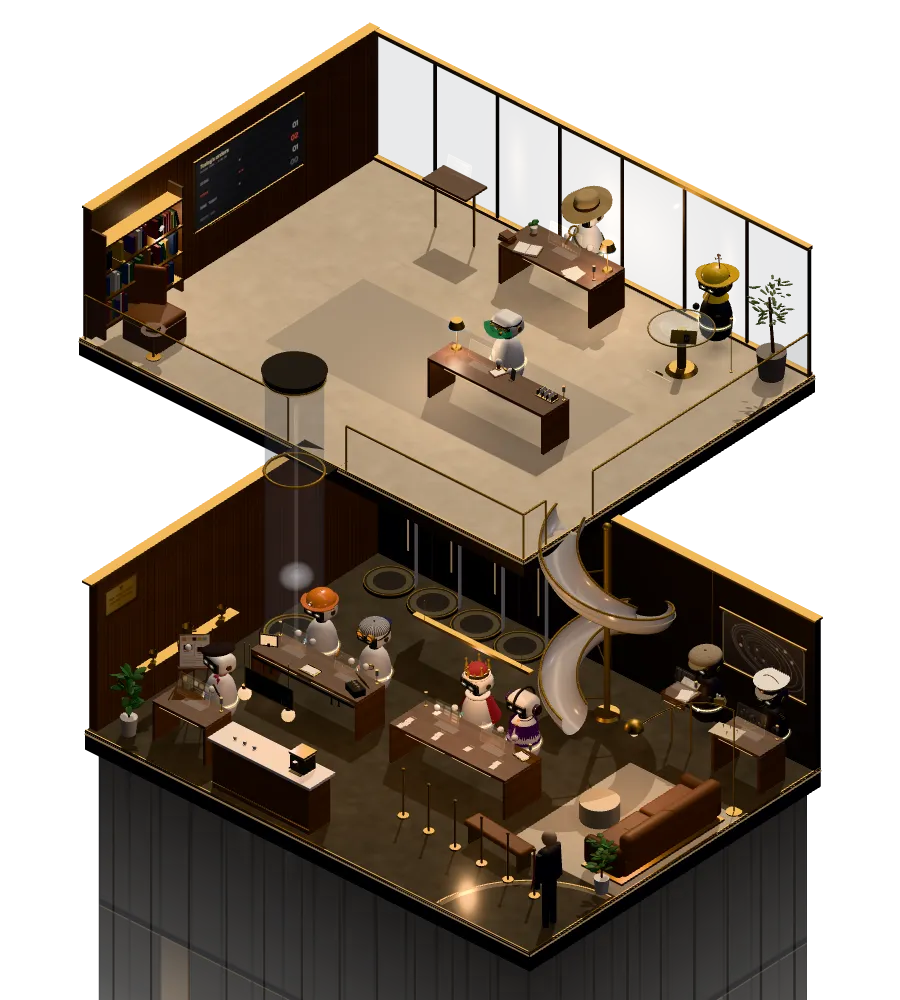
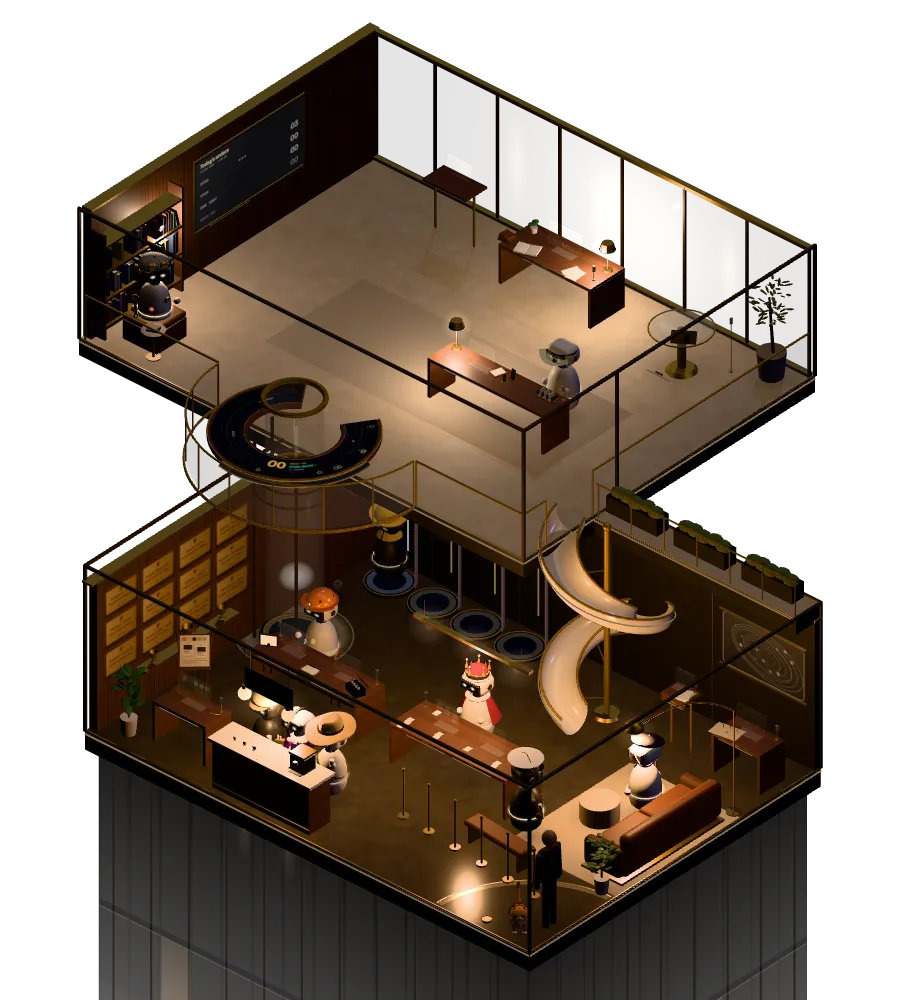
Hub v28.1 scene: open spindle top, ring type on the Observatory, sloped bezel, cat play retry, still re-rendered, v28.1 shots
Claude-Session: https://claude.ai/code/session_016ezDyTJ7bpC4c8kzD8WMCJ

diff --git a/pages/hub/scene.js b/pages/hub/scene.js
@@ -297,7 +297,7 @@ const FL = {down:{ox:0, oy:0, oz:0, wall:2.8}, up:{ox:-4.2, oy:3.1, oz:-4.6, wal
 const gDown = new THREE.Group(), gUp = new THREE.Group(); gUp.position.set(FL.up.ox, FL.up.oy, FL.up.oz); scene.add(gDown, gUp);
 const GRP = {down:gDown, up:gUp};
 const SLIDE = {cx:1.15, cz:-2.3, R:.75, top:3.1, bot:.03, th0:Math.PI, turns:1.25, tr:.3};
-const TUBE = {x:-3.9, z:-.7, r:.46, top:4.85};
+const TUBE = {x:-3.9, z:-.7, r:.46, top:4.45};   // v28.1: .6 m above the Observatory (was 4.85), so the table reads from above
 /* v28.1 the Observatory (blueprint 5.3): a ring table threaded on the tube, upper-floor local coords; its back half on the travertine,
  * its front half out over the half-disc glass cantilever (radius CR from the upper floor's front edge) */
 const OBS = {x:TUBE.x - FL.up.ox, z:TUBE.z - FL.up.oz, y:.745, r0:.74, r1:1.35, gap:.6, CR:2.05};
@@ -791,7 +791,7 @@ const tube = {};
   // highlight streak on the glass
   const hl = new THREE.Mesh(new THREE.PlaneGeometry(.06, top - .4), new THREE.MeshBasicMaterial({color:0xffffff, transparent:true, opacity:.12, depthWrite:false, toneMapped:false})); hl.position.set(x + r*.7, top/2, z + r*.7); hl.rotation.y = Math.PI/4; hl.renderOrder = 6; scene.add(dyn(hl));
   cyl(r + .08, r + .1, .06, MAT.steel, x, .03, z, 40); for (const y of [.07, 3.1, top]){ const t = new THREE.Mesh(new THREE.TorusGeometry(r + .01, .025, 8, 48), MAT.brass); t.rotation.x = Math.PI/2; t.position.set(x, y, z); scene.add(t); }
-  const cap = cyl(r + .06, r + .02, .14, MAT.brassSoft, x, top + .07, z, 40); cap.castShadow = false;   // v28.1: a brass finial on the spindle
+  { const cap = new THREE.Mesh(new THREE.TorusGeometry(r + .03, .045, 10, 48), MAT.brassSoft); cap.rotation.x = Math.PI/2; cap.position.set(x, top + .02, z); scene.add(cap); }   // v28.1: an open brass collar: you see down the spindle
   tube.capMat = new THREE.MeshBasicMaterial({color:0x8a6f4a, toneMapped:false}); const capRing = new THREE.Mesh(new THREE.TorusGeometry(r + .03, .014, 6, 48), tube.capMat); capRing.rotation.x = Math.PI/2; capRing.position.set(x, top - .02, z); scene.add(dyn(capRing));
   tube.ring = new THREE.Mesh(new THREE.TorusGeometry(r - .03, .03, 8, 48), new THREE.MeshBasicMaterial({color:0xf1c48a, transparent:true, opacity:0, depthWrite:false, blending:THREE.AdditiveBlending, toneMapped:false}));
   tube.ring.rotation.x = Math.PI/2; tube.ring.position.set(x, .2, z); tube.ring.visible = false; scene.add(tube.ring);
@@ -2301,6 +2301,7 @@ function catNeedsScan(){
 }
 function catPlayStart(id){
   const a = HUB.byId && HUB.byId[id], sim = sims[id];
+  if (a && sim && sim.ride && a.st === 'waiting'){ if (!CAT.pend.includes(id)) CAT.pend.push(id); return false; }   // mid-ride: after it lands
   if (!a || !sim || sim.hidden || sim.ride || sim.playing || a.st !== 'waiting') return false;
   if (sim.flowRole) flowAbort(sim);
   const f = CAT.floor, cx = CAT.perch ? CAT.perch.spot.x : CAT.x, cz = CAT.perch ? CAT.perch.spot.z : CAT.z;
@@ -2714,7 +2715,7 @@ function settle(){ for (const a of agentsArr()){ const sim = sims[a.id]; if (!si
   for (let i = 0; i < 10 && (sim.moving || sim.queue.length); i++){ if (sim.moving){ place(sim, sim.target); if (sim.pending){ sim.pending = false; applyState(sim, a, false); } } stepQueue(sim, a); if (sim.queue[0] && sim.queue[0].dur){ sim.poseT = sim.queue[0].dur*.4; break; } } } }
 
 /* test helper (not part of the contract): the cat's and the handoffs' state */
-function debug(){ return {cat:{x:CAT.x, z:CAT.z, floor:CAT.floor, alt:CAT.alt, state:catInfo.state, act:CAT.act, pose:CAT.pose, q:CAT.q.length, moving:CAT.moving, with:CAT.with, armed:CAT.armed},
+function debug(){ return {cat:{x:CAT.x, z:CAT.z, floor:CAT.floor, alt:CAT.alt, state:catInfo.state, act:CAT.act, pose:CAT.pose, q:CAT.q.length, moving:CAT.moving, with:CAT.with, withPose:CAT.with && sims[CAT.with] ? sims[CAT.with].pose : null, armed:CAT.armed},
   flows:FLOW.list.map(f => ({dir:f.dir, launched:f.launched, arrived:f.arrived, sW:f.sW, rW:f.rW, taken:f.taken, p:[+f.p.x.toFixed(2), +f.p.y.toFixed(2), +f.p.z.toFixed(2)]})), walk:FLOW.walk, watching:!!HUB.watching, lift:LIFT}; }
 window.SCENE = {ready:true, anchors, frame, resize, pick, settle, debug, get dragged(){ return SC.dragged; }, get info(){ return renderer.info.render; }, get perf(){ return {calls:perfO.calls, tris:perfO.tris, maxCalls:perfO.maxCalls, fps:perfO.fps, shadowPasses:shadowSun.n, shadowCalls:perfO.shCalls}; }, shadowDirty(){ shadowSun.dirty = true; },
   get views(){ return builtViews(); }, get cat(){ return catOn() ? catInfo : null; }, get tweening(){ return tw.t < 1; }, get pipDrawn(){ return !!(pipSt.drawn && HUB.pip && HUB.pip.id === pipSt.id); }, get busy(){ return isBusy(); }, points, get cctv(){ return cctv.i % 2 === 0 ? 1 : 2; }};
